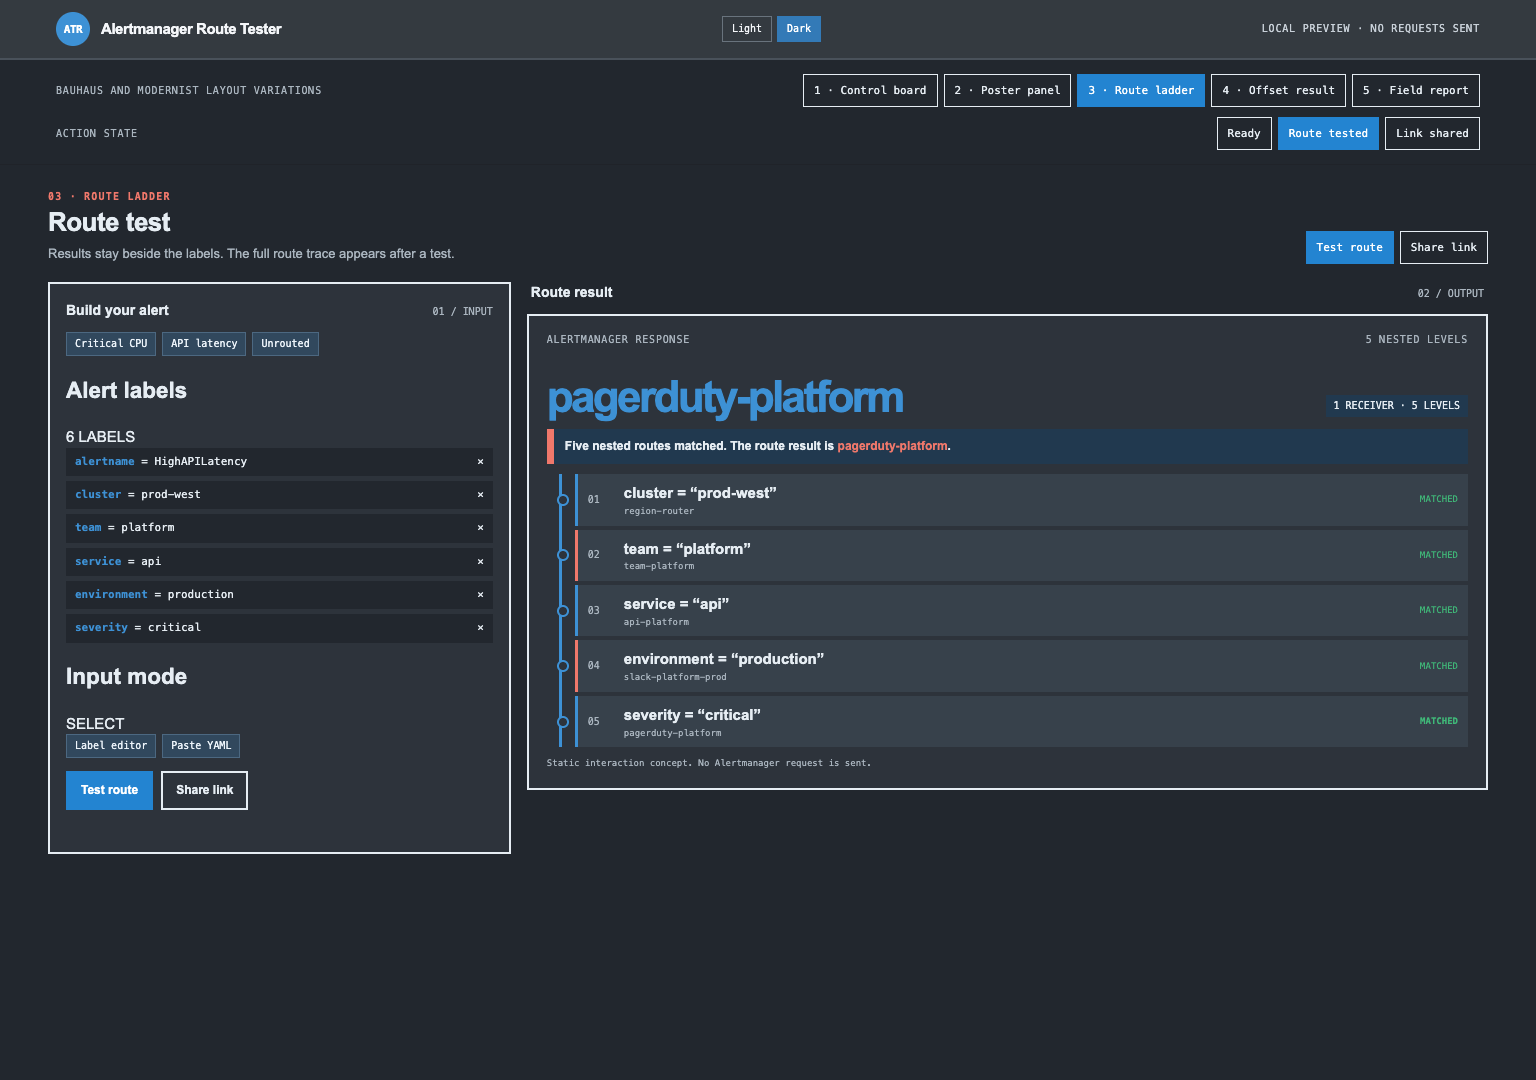
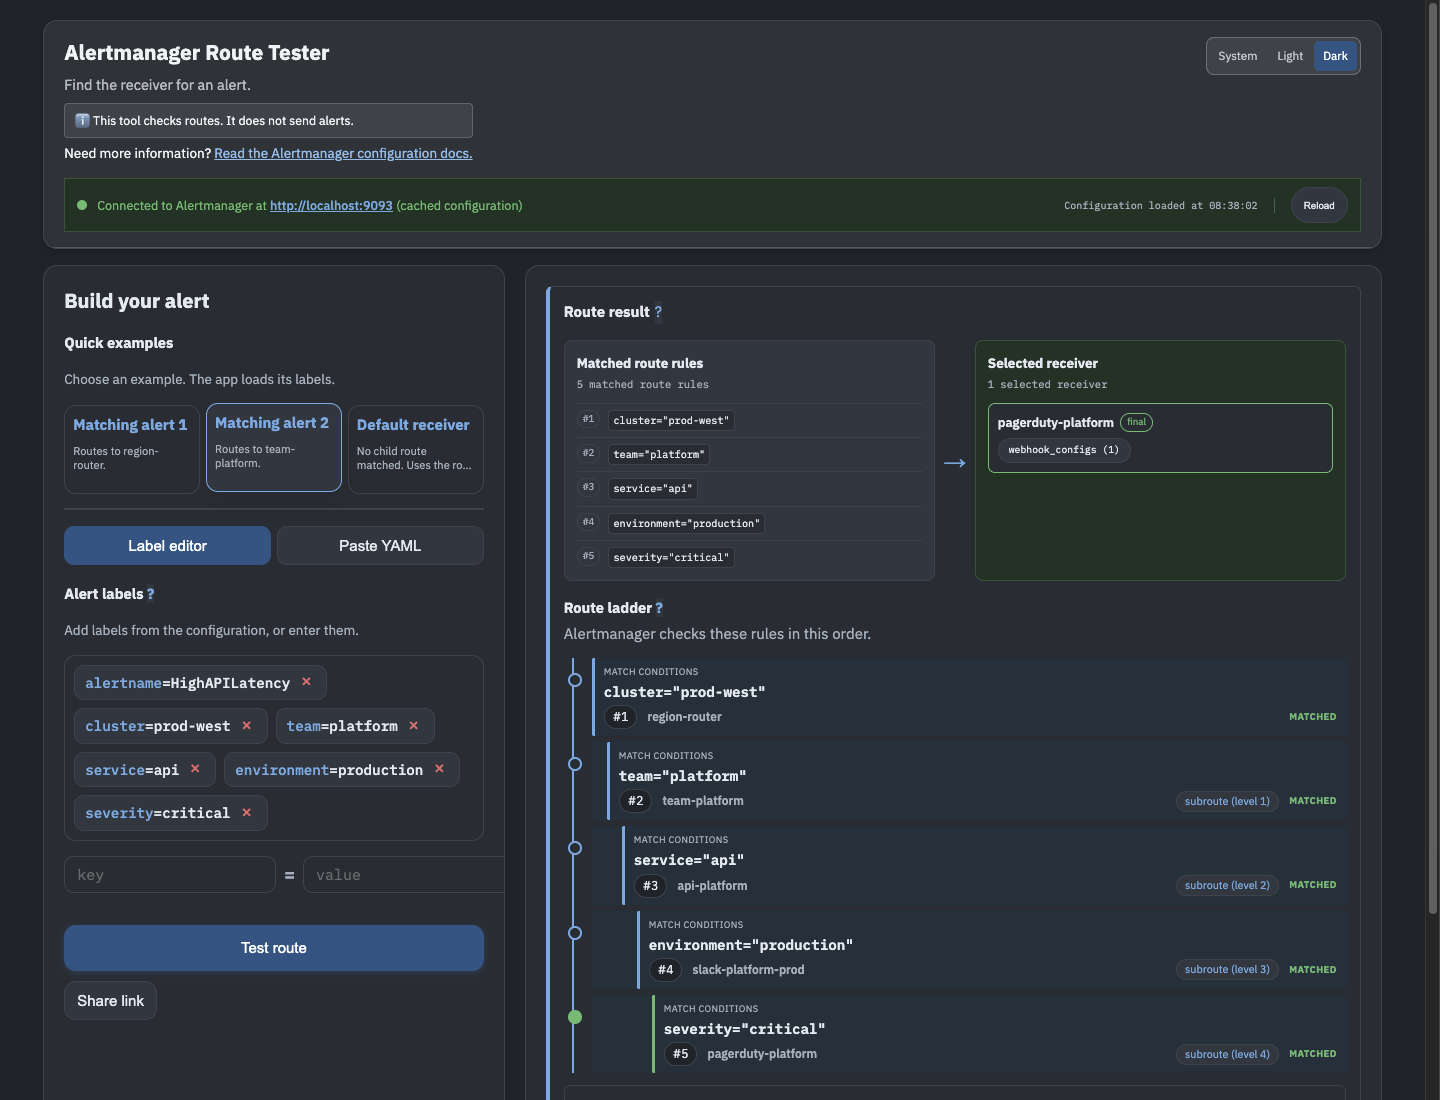
docs: refresh route-ladder flow reference

diff --git a/docs/design-reference/issue-14-route-ladder/route-ladder-preview.html b/docs/design-reference/issue-14-route-ladder/route-ladder-preview.html
@@ -275,6 +275,17 @@
     html[data-layout="field-report"] .result-pane .route-step { border-left-width: 0; border-top: 1px solid var(--line); background: transparent; }
 
     .long-route-result { margin-top: 12px; }
+    .long-route-flow { display: grid; grid-template-columns: minmax(0, 1fr) 22px minmax(0, .85fr); align-items: stretch; gap: 7px; margin: 10px 0 14px; }
+    .long-route-flow-section { min-width: 0; padding: 10px; border: 1px solid var(--line); background: var(--panel); }
+    .long-route-flow-section.destination { border-color: var(--green); background: var(--panel-alt); }
+    .long-route-flow-heading { display: flex; justify-content: space-between; gap: 8px; color: var(--muted); font: 9px/1.3 var(--mono); text-transform: uppercase; }
+    .long-route-flow-list { display: grid; gap: 4px; margin-top: 8px; }
+    .long-route-flow-rule { display: grid; grid-template-columns: 22px minmax(0, 1fr); gap: 5px; align-items: center; padding-top: 5px; border-top: 1px solid var(--line); font: 9px/1.3 var(--mono); }
+    .long-route-flow-rule span:last-child { overflow-wrap: anywhere; }
+    .long-route-flow-arrow { align-self: center; color: var(--blue); font-size: 19px; text-align: center; }
+    .long-route-flow-receiver { margin-top: 8px; padding: 9px; border: 1px solid var(--green); background: var(--panel); }
+    .long-route-flow-receiver strong { display: block; font-size: 13px; }
+    .long-route-flow-receiver small { display: block; margin-top: 4px; color: var(--muted); font: 9px/1.3 var(--mono); }
     .long-route-steps { display: grid; gap: 4px; margin: 10px 0 0 12px; padding-left: 13px; border-left: 3px solid var(--blue); }
     .long-route-step { position: relative; display: grid; grid-template-columns: 28px minmax(0, 1fr) auto; gap: 8px; align-items: center; padding: 8px 10px; border-left: 3px solid var(--blue); background: var(--panel-alt); }
     .long-route-step::before { content: ""; position: absolute; left: -21px; width: 8px; height: 8px; border: 2px solid var(--blue); border-radius: 50%; background: var(--panel); }
@@ -347,6 +358,8 @@
       html[data-layout="route-ladder"] .result-live > *,
       html[data-layout="field-report"] .result-live > * { grid-column: 1; }
       html[data-layout="offset-result"] .input-pane { margin-top: 0; }
+      .long-route-flow { grid-template-columns: 1fr; }
+      .long-route-flow-arrow { transform: rotate(90deg); }
     }
 
     @media (max-width: 620px) {
@@ -444,7 +457,7 @@
             <p>Run Test route to see the receiver here.</p>
           </div>
           <div class="result-live">
-            <div class="result-kicker"><span>ALERTMANAGER RESPONSE</span><span class="continue-path-label">CONTINUE PATH</span><span class="ladder-path-label">5 NESTED LEVELS</span></div>
+            <div class="result-kicker"><span>ALERTMANAGER RESPONSE</span><span class="continue-path-label">CONTINUE PATH</span><span class="ladder-path-label">5 MATCHED ROUTE RULES</span></div>
             <div class="receiver-band continue-route-result"><h2 class="receiver-name">2 receivers</h2><span class="receiver-count">BOTH NOTIFIED</span></div>
             <p class="fallback-message continue-route-result">Two routes matched. Each receiver gets a copy.</p>
             <div class="outcome-grid continue-route-result">
@@ -459,8 +472,24 @@
               </div>
             </section>
             <section class="long-route-result">
-              <div class="receiver-band"><h2 class="receiver-name">pagerduty-platform</h2><span class="receiver-count">1 RECEIVER · 5 LEVELS</span></div>
-              <p class="fallback-message">Five nested routes matched. The route result is <strong>pagerduty-platform</strong>.</p>
+              <div class="long-route-flow">
+                <div class="long-route-flow-section">
+                  <div class="long-route-flow-heading"><span>Matched route rules</span><span>5 rules</span></div>
+                  <div class="long-route-flow-list">
+                    <div class="long-route-flow-rule"><span>#1</span><span>cluster="prod-west"</span></div>
+                    <div class="long-route-flow-rule"><span>#2</span><span>team="platform"</span></div>
+                    <div class="long-route-flow-rule"><span>#3</span><span>service="api"</span></div>
+                    <div class="long-route-flow-rule"><span>#4</span><span>environment="production"</span></div>
+                    <div class="long-route-flow-rule"><span>#5</span><span>severity="critical"</span></div>
+                  </div>
+                </div>
+                <span class="long-route-flow-arrow" aria-hidden="true">&rarr;</span>
+                <div class="long-route-flow-section destination">
+                  <div class="long-route-flow-heading"><span>Selected receiver</span><span>1 receiver</span></div>
+                  <div class="long-route-flow-receiver"><strong>pagerduty-platform</strong><small>webhook_configs (1) · final receiver</small></div>
+                </div>
+              </div>
+              <div class="section-line"><h3>Route ladder</h3><small>5 ROUTE STEPS</small></div>
               <div class="long-route-steps">
                 <div class="long-route-step"><span class="route-number">01</span><span><b>cluster = “prod-west”</b><small>region-router</small></span><span class="route-badge">MATCHED</span></div>
                 <div class="long-route-step"><span class="route-number">02</span><span><b>team = “platform”</b><small>team-platform</small></span><span class="route-badge">MATCHED</span></div>

diff --git a/docs/design-reference/issue-14-route-ladder/README.md b/docs/design-reference/issue-14-route-ladder/README.md
@@ -4,11 +4,12 @@ AI-generated content prepared on Will's behalf.
 
 This static preview records the selected route-ladder direction. It includes five layout options, light and dark themes, and simulated label, route-test, and share states. Its CSS and interactions are embedded in `route-ladder-preview.html`. It sends no requests to Alertmanager.
 
-The preview opens on the tested route-ladder state. Use the controls to compare the other layouts, themes, and action states.
+The preview opens on the tested route-ladder state. Use its controls to compare the other layouts, themes, and action states. The light and dark screenshots below show the running app with a local five-level Alertmanager route and the route-to-receiver flow. The remaining action-state screenshots are from the static preview.
 
 Use this as a visual guide for future frontend work:
 
 - Keep the tested route result beside the alert inputs on wide screens.
+- Show matched route rules flowing to the selected receiver or receivers before the route ladder.
 - Give long route paths enough room to read each matcher and receiver.
 - Use blue and gray for the interface, with green marking matched routes.
 - Show each matcher condition before its receiver name.
@@ -22,4 +23,4 @@ Dark theme:
 
 ![Route ladder in the dark theme](route-ladder-dark.png)
 
-Action states: `label-added.png`, `route-tested.png`, and `link-shared.png`.
+Static preview action states: `label-added.png`, `route-tested.png`, and `link-shared.png`.
